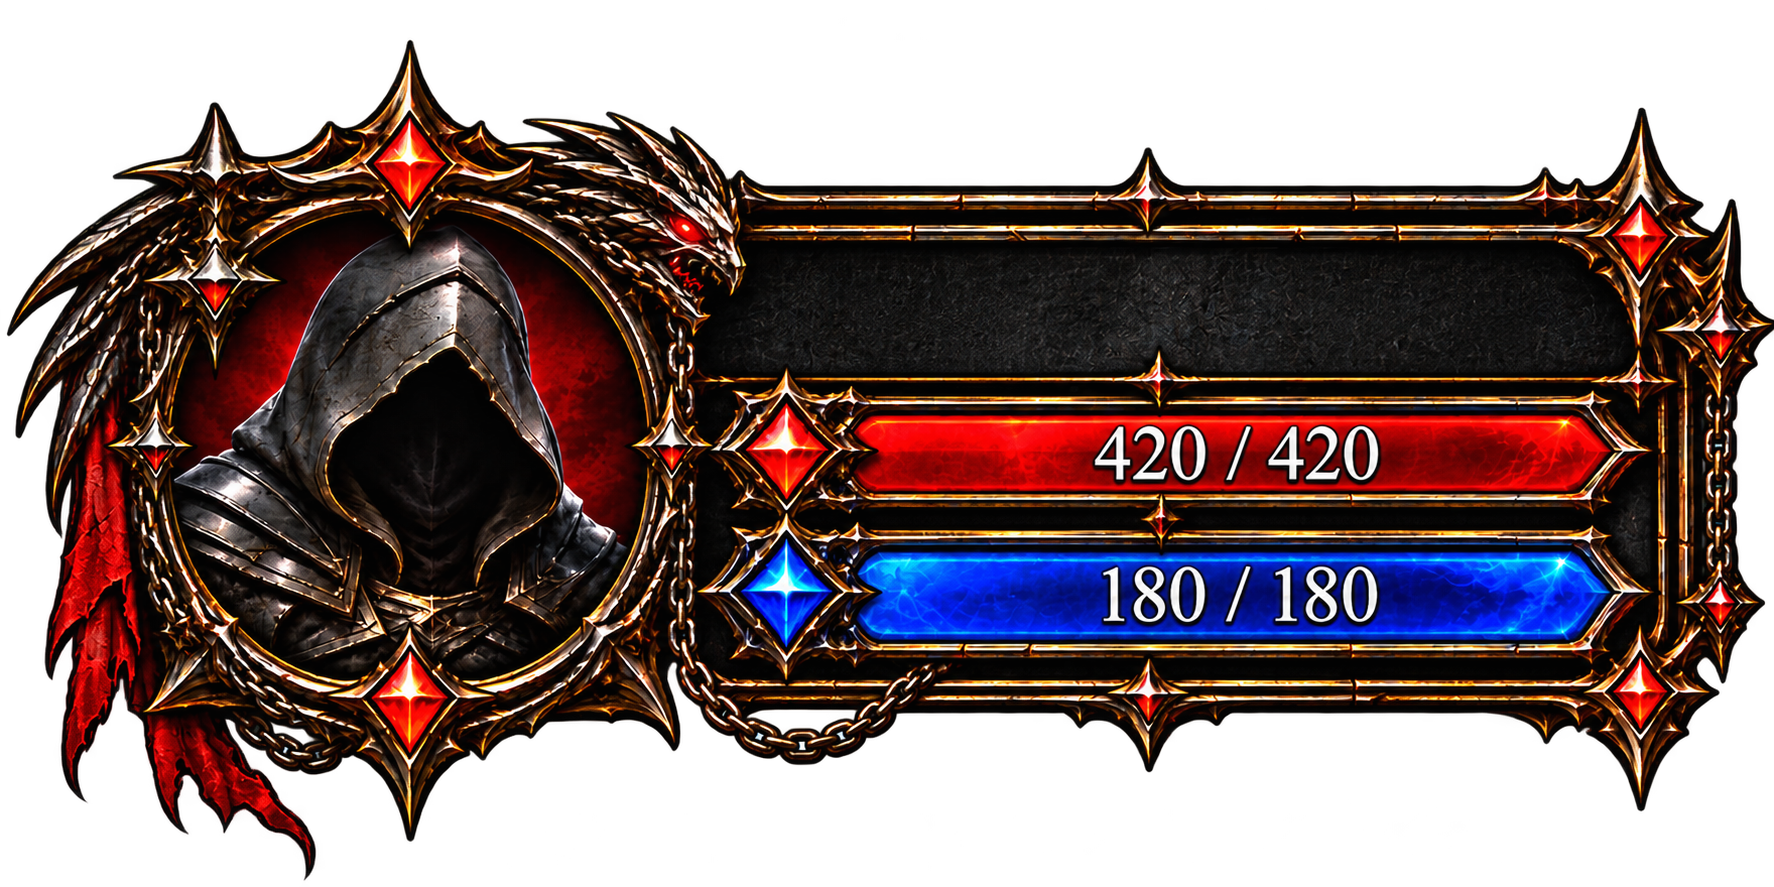
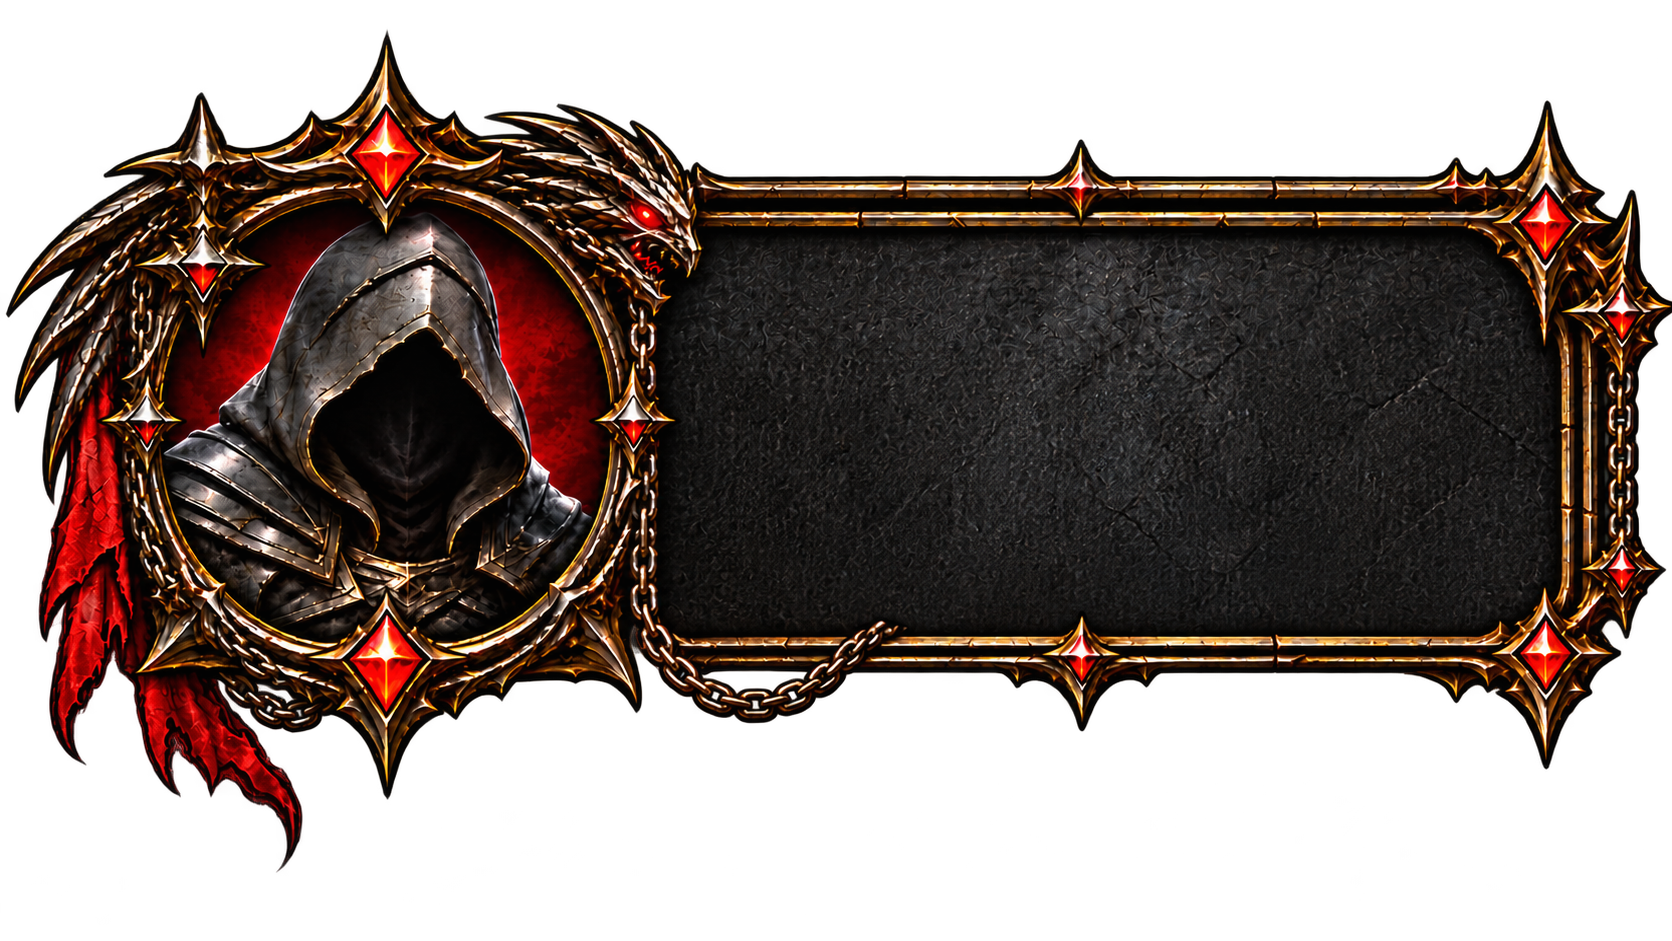
feat: update player profile panel

diff --git a/frontend/src/index.css b/frontend/src/index.css
@@ -654,7 +654,7 @@ button, a { -webkit-tap-highlight-color: transparent; }
     inset: 0;
     width: 100%;
     height: 100%;
-    object-fit: fill;
+    object-fit: contain;
     pointer-events: none;
     user-select: none;
 }
@@ -900,27 +900,27 @@ button, a { -webkit-tap-highlight-color: transparent; }
     display: block;
     width: 100%;
     height: 100%;
-    object-fit: contain;
+    object-fit: fill;
     pointer-events: none;
     user-select: none;
 }
 
 .game-player {
-    top: -.25%;
+    top: -.85%;
     left: -.15%;
     width: min(22.75vw, 27.3rem);
-    aspect-ratio: 1774 / 887;
+    aspect-ratio: 1672 / 941;
 }
 
 .game-player__identity {
     position: absolute;
-    top: 20%;
-    left: 43.5%;
-    width: 46%;
+    top: 25.5%;
+    left: 48%;
+    width: 50%;
     display: flex;
     align-items: baseline;
-    justify-content: space-between;
-    gap: .5rem;
+    justify-content: flex-start;
+    gap: .7rem;
     color: #f0cf8e;
     font-size: clamp(.6rem, .98vw, .98rem);
     line-height: 1;
@@ -928,42 +928,48 @@ button, a { -webkit-tap-highlight-color: transparent; }
 }
 
 .game-player__identity strong {
-    max-width: 72%;
+    max-width: 70%;
     overflow: hidden;
     font-weight: 600;
     white-space: nowrap;
     text-overflow: ellipsis;
 }
 
-.game-player__identity span { color: #e8a64e; font-size: .82em; }
+.game-player__identity span { color: #e8a64e; font-size: .992em; }
 
 .game-player__bar {
     position: absolute;
-    left: 48.2%;
-    width: 43.5%;
-    height: 10.8%;
-    display: grid;
-    place-items: center;
-    overflow: hidden;
+    left: 44.46%;
+    width: 44.09%;
+    height: 21%;
     color: #fff4dc;
-    font-size: clamp(.56rem, .9vw, .92rem);
+    font-size: clamp(.66rem, .9vw, .92rem);
     font-weight: 700;
-    line-height: 1;
+    line-height: 11;
     text-shadow: 0 .1rem .18rem #000, 0 0 .22rem #000;
-    clip-path: polygon(5% 0, 95% 0, 100% 50%, 95% 100%, 5% 100%, 0 50%);
 }
 
-.game-player__bar--hp {
-    top: 50.5%;
-    background: linear-gradient(180deg, #f63a29 0, #b80609 48%, #6f0207 100%);
+.game-player__bar > img {
+    display: block;
+    width: 100%;
+    height: 90%;
+    object-fit: fill;
+    pointer-events: none;
+    user-select: none;
 }
 
-.game-player__bar--mp {
-    top: 69.1%;
-    background: linear-gradient(180deg, #257aff 0, #063bd4 48%, #071e83 100%);
-}
+.game-player__bar--hp { top: 32.15%; }
+.game-player__bar--mp { top: 47.17%; }
 
-.game-player__bar span { position: relative; z-index: 1; }
+.game-player__bar span {
+    position: absolute;
+    top: 44%;
+    left: 20%;
+    width: 74%;
+    z-index: 1;
+    text-align: center;
+    transform: translateY(-50%);
+}
 
 .game-location {
     top: 1.2%;
@@ -1081,10 +1087,10 @@ button, a { -webkit-tap-highlight-color: transparent; }
 .game-quest__progress { color: #eef8ff; font-size: clamp(.5rem, .75vw, .72rem); text-shadow: 0 .1rem .16rem #000; }
 
 .game-side-menu {
-    top: -.9%;
+    top: 2%;
     right: -2.4%;
     width: min(21.75vw, 18rem);
-    aspect-ratio: 768 / 1724;
+    aspect-ratio: 768 / 1524;
     transform: translateX(15%);
 }
 
@@ -1101,11 +1107,17 @@ button, a { -webkit-tap-highlight-color: transparent; }
 }
 
 .game-side-menu button { left: 35.75%; width: 29.26%; height: 13.65%; }
-.game-side-menu button:nth-of-type(1) { top: 10.21%; }
-.game-side-menu button:nth-of-type(2) { top: 25.38%; }
+.game-side-menu button:nth-of-type(1) { top: 6.71%; }
+.game-side-menu button:nth-of-type(2) { top: 24.38%; }
 .game-side-menu button:nth-of-type(3) { top: 40.56%; }
-.game-side-menu button:nth-of-type(4) { top: 55.73%; }
-.game-side-menu button:nth-of-type(5) { top: 70.9%; }
+.game-side-menu button:nth-of-type(4) { top: 56%; }
+.game-side-menu button:nth-of-type(5) { top: 74.3%; }
+
+
+.game-side-menu button:hover {
+    background: rgba(255, 0, 0, .46);
+    box-shadow: inset 0 0 1.35rem rgba(255, 30, 0, .82), 0 0 1rem rgba(255, 35, 0, .92);
+}
 
 .game-actions {
     left: 8%;

diff --git a/frontend/src/pages/GamePage.tsx b/frontend/src/pages/GamePage.tsx
@@ -160,9 +160,11 @@ export default function GamePage() {
                     <span>Ур. {player.level}</span>
                 </div>
                 <div className="game-player__bar game-player__bar--hp">
+                    <img src="/assets/game/player-health.png" alt="" aria-hidden="true" />
                     <span>{player.currentHp} / {player.maxHp}</span>
                 </div>
                 <div className="game-player__bar game-player__bar--mp">
+                    <img src="/assets/game/player-mana.png" alt="" aria-hidden="true" />
                     <span>{player.currentMp} / {player.maxMp}</span>
                 </div>
             </section>
